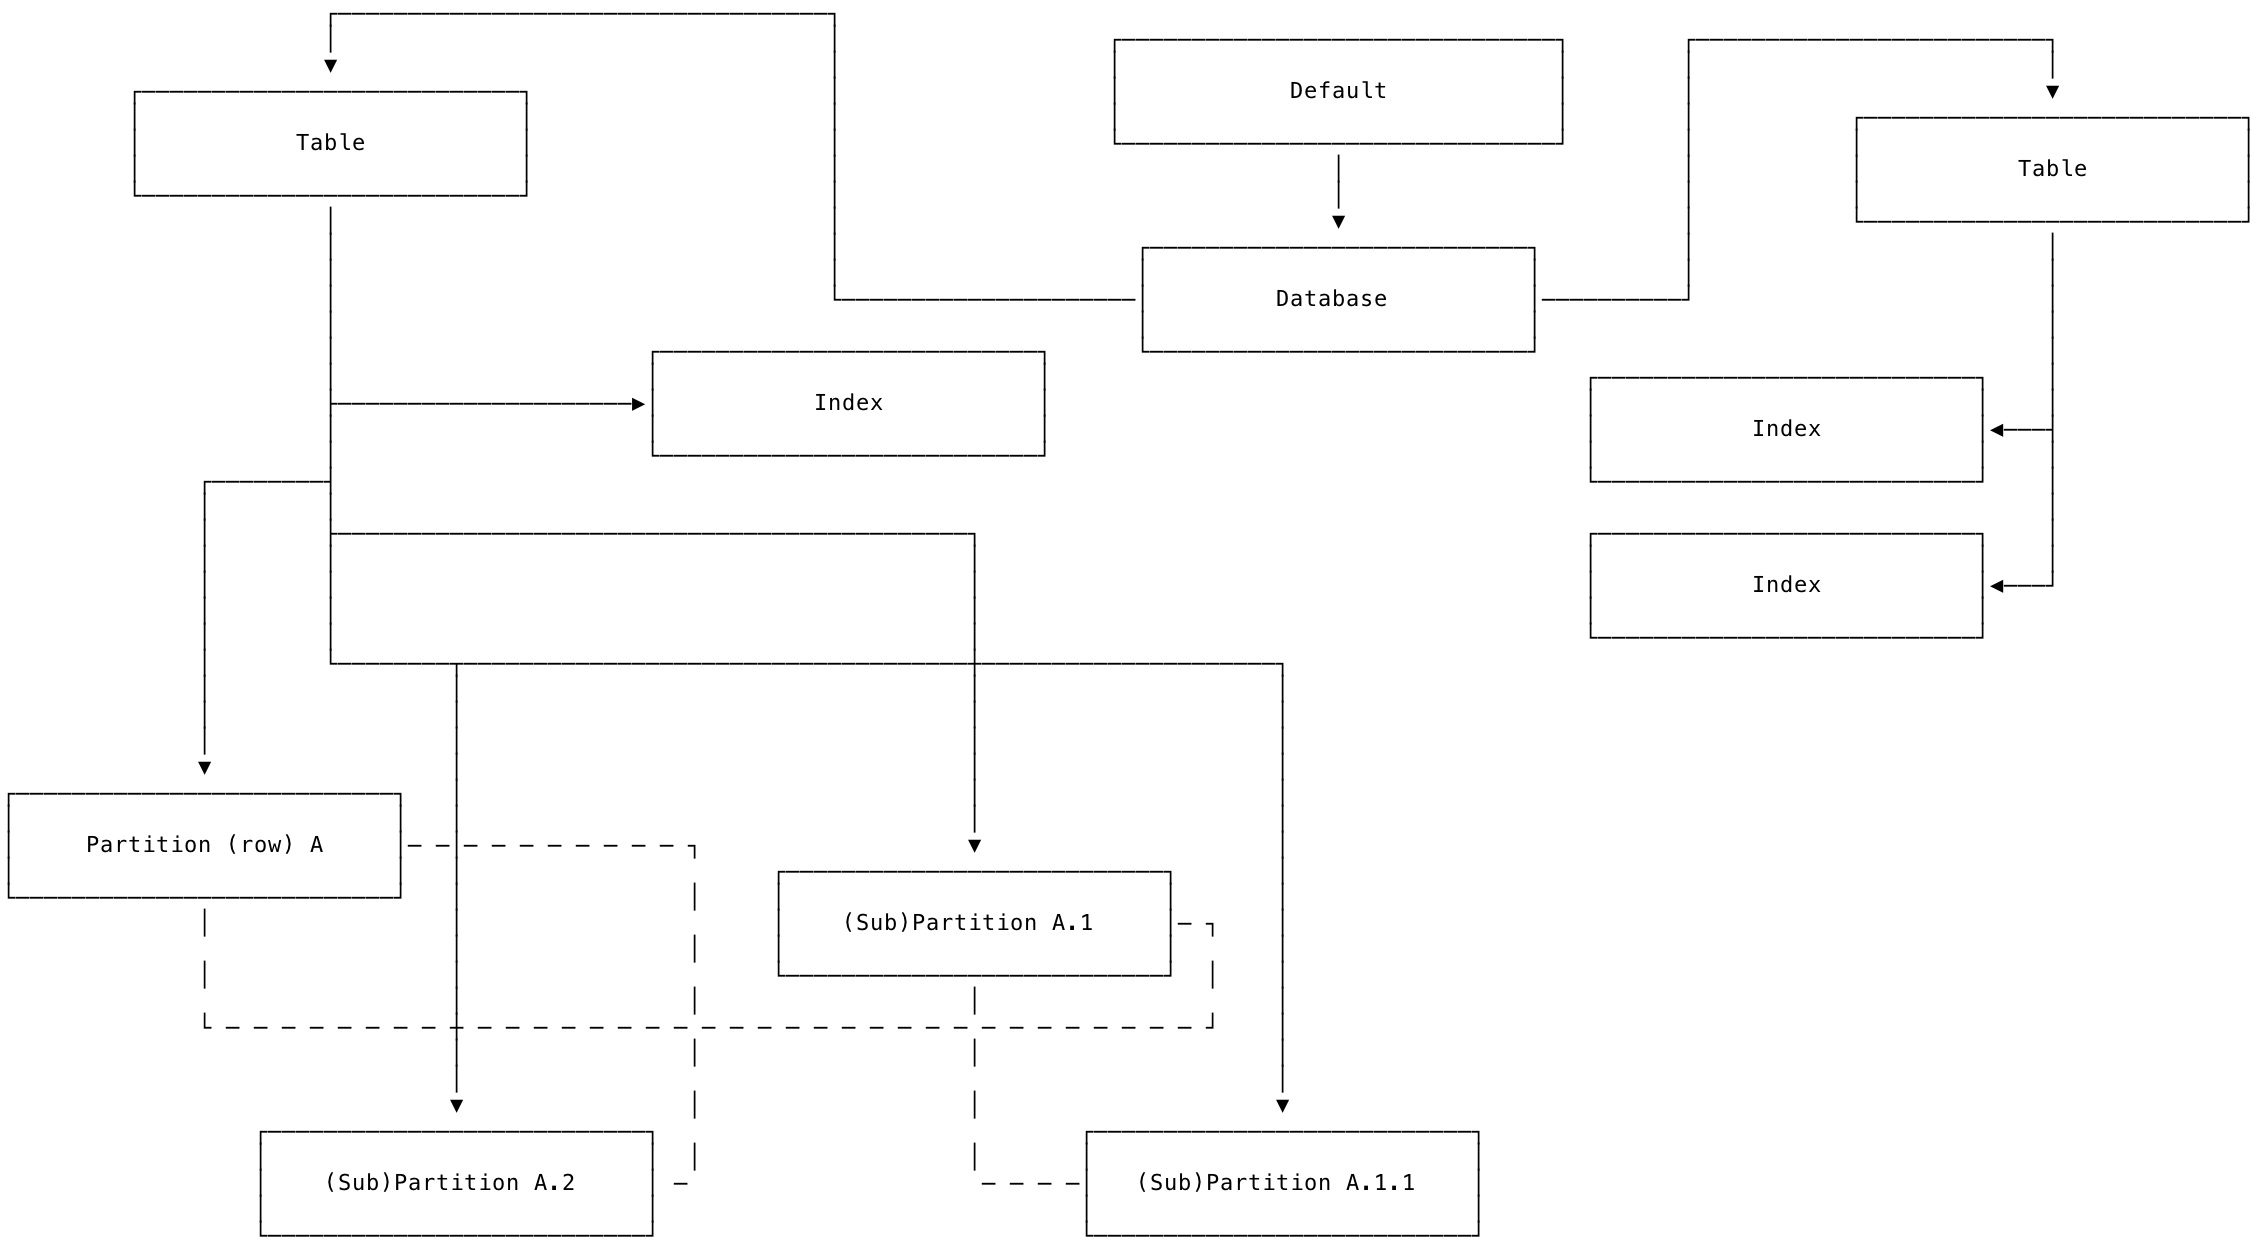
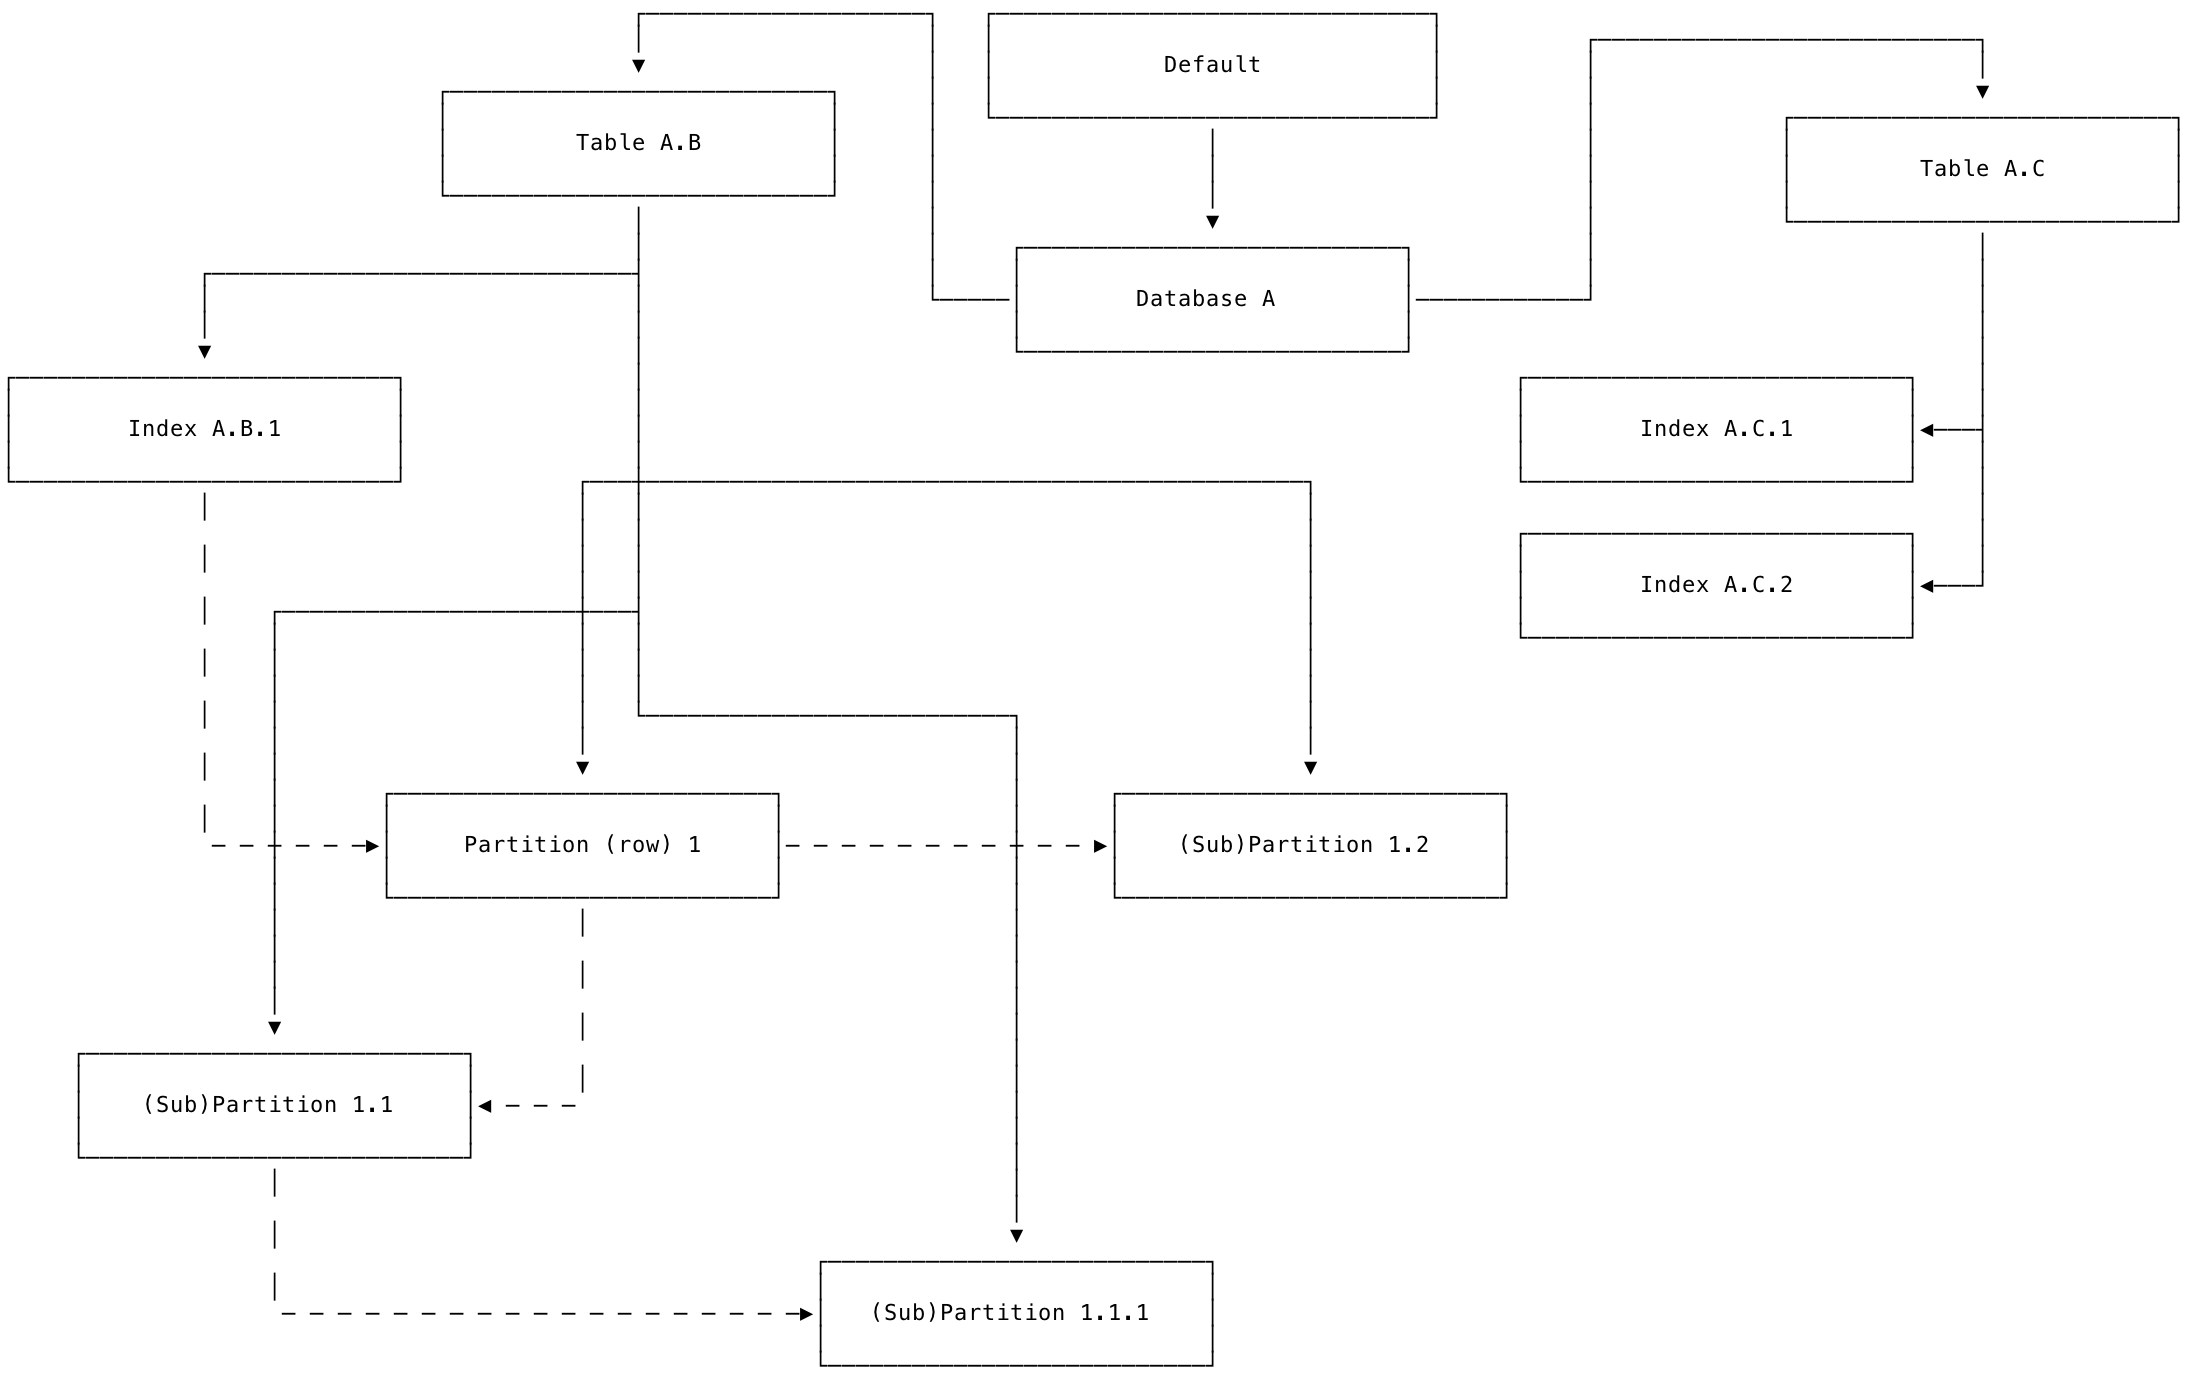
Update with annrpom and fqazi feedback (1)

diff --git a/src/current/v24.3/troubleshoot-replication-zones.md b/src/current/v24.3/troubleshoot-replication-zones.md
@@ -138,69 +138,57 @@ Once you have a range ID, you need to map from that ID to the name of a schema o
 
 The following example query uses the [`SHOW RANGES`]({% link {{ page.version.version }}/show-ranges.md %}) statement to show, for each range ID, which tables and indexes use that range for their underlying storage. The query assumes the [`movr` schema]({% link {{ page.version.version }}/movr.md %}#the-movr-database) that is loaded by [`cockroach demo`]({% link {{ page.version.version }}/cockroach-demo.md %}), so you'll need to modify it to work with your schema.
 
-XXX: GET HELP WITH THIS QUERY, OUTPUT SEEMS NOT QUITE RIGHT??? (or is it ok?)
-
 {% include_cached copy-clipboard.html %}
 ~~~ sql
-WITH movr_tables AS (SHOW RANGES FROM DATABASE movr WITH TABLES),
-       movr_indexes AS (SHOW RANGES FROM DATABASE movr WITH INDEXES)
-  SELECT movr_indexes.range_id,
+    WITH movr_tables AS (SHOW RANGES FROM DATABASE movr WITH TABLES),
+         movr_indexes AS (SHOW RANGES FROM DATABASE movr WITH INDEXES)
+  SELECT array_agg(movr_indexes.range_id) AS ranges,
          movr_tables.table_name,
          movr_indexes.index_name
     FROM movr_tables, movr_indexes
    WHERE movr_tables.range_id = movr_indexes.range_id
-ORDER BY movr_tables.range_id
+GROUP BY movr_tables.table_name, movr_indexes.index_name
+ORDER BY table_name, index_name
 ~~~
 
-In the following output, each range ID in the leftmost column maps to a table name and index name in the subsequent columns. For example, given this output, if the critical nodes endpoint said the constraint violation was for range ID 103, we would know to look at the zone configuration(s) for the `rides` table and the `rides_pkey` primary index.
-
-XXX: EDIT THIS QUERY OUTPUT ONCE YOU GET A (HOPEFULLY) BETTER QUERY
+In the following output, each range ID in the leftmost column maps to a table name and index name in the subsequent columns. For example, given this output, if the critical nodes endpoint said the constraint violation was for range ID 101, we would know to look at the zone configuration(s) for the `users` table and the `users_pkey` primary index.
 
 ~~~
-  range_id |         table_name         |                  index_name
------------+----------------------------+------------------------------------------------
-        71 | promo_codes                | promo_codes_pkey
-        71 | user_promo_codes           | promo_codes_pkey
-        78 | vehicle_location_histories | vehicle_location_histories_pkey
-        78 | promo_codes                | vehicle_location_histories_pkey
-        79 | user_promo_codes           | user_promo_codes_pkey
-        85 | vehicle_location_histories | rides_auto_index_fk_vehicle_city_ref_vehicles
-        85 | rides                      | rides_auto_index_fk_vehicle_city_ref_vehicles
-        87 | users                      | users_pkey
-        88 | users                      | users_pkey
-        89 | users                      | users_pkey
-        90 | users                      | users_pkey
-        91 | users                      | users_pkey
-        92 | vehicles                   | vehicles_pkey
-        92 | users                      | users_pkey
-        92 | users                      | vehicles_pkey
-        92 | vehicles                   | users_pkey
-        93 | users                      | users_pkey
-        94 | users                      | users_pkey
-        95 | vehicles                   | vehicles_pkey
-        96 | vehicles                   | vehicles_pkey
-        97 | vehicles                   | vehicles_pkey
-        98 | rides                      | vehicles_pkey
-        98 | rides                      | vehicles_auto_index_fk_city_ref_users
-        98 | vehicles                   | rides_pkey
-        98 | rides                      | rides_pkey
-        98 | vehicles                   | vehicles_pkey
-        98 | vehicles                   | vehicles_auto_index_fk_city_ref_users
-        99 | vehicles                   | vehicles_pkey
-       100 | vehicles                   | vehicles_pkey
-       101 | vehicles                   | vehicles_pkey
-       102 | vehicles                   | vehicles_pkey
-       103 | rides                      | rides_pkey
-       104 | rides                      | rides_pkey
-       105 | rides                      | rides_pkey
-       106 | rides                      | rides_pkey
-       106 | rides                      | rides_auto_index_fk_city_ref_users
-       107 | rides                      | rides_pkey
-       108 | rides                      | rides_pkey
-       109 | rides                      | rides_pkey
-       110 | rides                      | rides_pkey
-       111 | users                      | users_pkey
-(41 rows)
+                ranges               |         table_name         |                  index_name
+-------------------------------------+----------------------------+------------------------------------------------
+  {150}                              | promo_codes                | promo_codes_pkey
+  {150}                              | promo_codes                | rides_auto_index_fk_city_ref_users
+  {150}                              | promo_codes                | rides_auto_index_fk_vehicle_city_ref_vehicles
+  {150}                              | promo_codes                | rides_pkey
+  {150}                              | promo_codes                | user_promo_codes_pkey
+  {150}                              | promo_codes                | vehicle_location_histories_pkey
+  {150}                              | rides                      | promo_codes_pkey
+  {150}                              | rides                      | rides_auto_index_fk_city_ref_users
+  {150}                              | rides                      | rides_auto_index_fk_vehicle_city_ref_vehicles
+  {83,153,152,96,154,95,141,140,150} | rides                      | rides_pkey
+  {150}                              | rides                      | user_promo_codes_pkey
+  {150}                              | rides                      | vehicle_location_histories_pkey
+  {83}                               | rides                      | vehicles_auto_index_fk_city_ref_users
+  {83}                               | rides                      | vehicles_pkey
+  {150}                              | user_promo_codes           | promo_codes_pkey
+  {150}                              | user_promo_codes           | rides_auto_index_fk_city_ref_users
+  {150}                              | user_promo_codes           | rides_auto_index_fk_vehicle_city_ref_vehicles
+  {150}                              | user_promo_codes           | rides_pkey
+  {150}                              | user_promo_codes           | user_promo_codes_pkey
+  {150}                              | user_promo_codes           | vehicle_location_histories_pkey
+  {101,73,72,71,100,70,81,80,90}     | users                      | users_pkey
+  {90}                               | users                      | vehicles_pkey
+  {150}                              | vehicle_location_histories | promo_codes_pkey
+  {150}                              | vehicle_location_histories | rides_auto_index_fk_city_ref_users
+  {150}                              | vehicle_location_histories | rides_auto_index_fk_vehicle_city_ref_vehicles
+  {150}                              | vehicle_location_histories | rides_pkey
+  {150}                              | vehicle_location_histories | user_promo_codes_pkey
+  {150}                              | vehicle_location_histories | vehicle_location_histories_pkey
+  {83}                               | vehicles                   | rides_pkey
+  {90}                               | vehicles                   | users_pkey
+  {83}                               | vehicles                   | vehicles_auto_index_fk_city_ref_users
+  {90,94,93,92,85,91,84,82,83}       | vehicles                   | vehicles_pkey
+(32 rows)
 ~~~
 
 ### Replication system priorities: data placement vs data durability

diff --git a/src/current/v24.3/configure-replication-zones.md b/src/current/v24.3/configure-replication-zones.md
@@ -43,7 +43,7 @@ When a cluster starts, there are two categories of replication zone:
 1. Pre-configured replication zones that apply to internal system data.
 1. A single default replication zone that applies to the rest of the cluster.
 
-You can adjust these pre-configured zones as well as add zones for individual databases, tables, rows, and secondary indexes as needed.
+You can adjust these pre-configured zones as well as add zones for individual databases, tables, rows, and indexes as needed.
 
 For example, you might rely on the [default zone](#view-the-default-replication-zone) to spread most of a cluster's data across all of your availability zones, but [create a custom replication zone for a specific database](#create-a-replication-zone-for-a-database) to make sure its data is only stored in certain availability zones and/or geographies.
 
@@ -56,8 +56,8 @@ Level | Description
 Cluster | CockroachDB comes with a pre-configured `default` replication zone that applies to all table data in the cluster not constrained by a database, table, or row-specific replication zone. This zone can be adjusted but not removed. See [View the Default Replication Zone](#view-the-default-replication-zone) and [Edit the Default Replication Zone](#edit-the-default-replication-zone) for more details.
 Database | You can add replication zones for specific databases. See [Create a Replication Zone for a Database](#create-a-replication-zone-for-a-database) for more details.
 Table | You can add replication zones for specific tables. See [Create a Replication Zone for a Table](#create-a-replication-zone-for-a-table).
-Index | The [secondary indexes]({% link {{ page.version.version }}/indexes.md %}) on a table will automatically use the replication zone for the table. However, with an Enterprise license, you can add distinct replication zones for secondary indexes. See [Create a Replication Zone for a Secondary Index](#create-a-replication-zone-for-a-secondary-index) for more details.
-Row | You can add replication zones for specific rows in a table or secondary index by [defining table partitions]({% link {{ page.version.version }}/partitioning.md %}). See [Create a Replication Zone for a Table Partition](#create-a-replication-zone-for-a-partition) for more details.
+Index | The [indexes]({% link {{ page.version.version }}/indexes.md %}) on a table will automatically use the replication zone for the table. However, with an Enterprise license, you can add distinct replication zones for indexes. See [Create a Replication Zone for a Secondary Index](#create-a-replication-zone-for-a-secondary-index) for more details.
+Row | You can add replication zones for specific rows in a table or index by [defining table partitions]({% link {{ page.version.version }}/partitioning.md %}). See [Create a Replication Zone for a Table Partition](#create-a-replication-zone-for-a-partition) for more details.
 
 ### For system data
 
@@ -73,8 +73,8 @@ System Range | CockroachDB comes with pre-configured replication zones for impor
 When replicating data, whether table or system, CockroachDB always uses the most granular replication zone available. For example, for a piece of user data:
 
 1. If there's a replication zone [for the row](#create-a-replication-zone-for-a-partition) (a.k.a. [partition]({% link {{ page.version.version }}/partitioning.md %})), CockroachDB uses it.
-1. If there's no applicable row replication zone and the row is from a secondary index, CockroachDB uses the [secondary index replication zone](#create-a-replication-zone-for-a-secondary-index).
-1. If the row isn't from a secondary index or there is no applicable secondary index replication zone, CockroachDB uses the [table replication zone](#create-a-replication-zone-for-a-table).
+1. If there's no applicable row replication zone and the row is from an index, CockroachDB uses the [index replication zone](#create-a-replication-zone-for-a-secondary-index).
+1. If the row isn't from a index or there is no applicable index replication zone, CockroachDB uses the [table replication zone](#create-a-replication-zone-for-a-table).
 1. If there's no applicable table replication zone, CockroachDB uses the [database replication zone](#create-a-replication-zone-for-a-database).
 1. If there's no applicable database replication zone, CockroachDB uses [the `default` cluster-wide replication zone](#view-the-default-replication-zone).
 
@@ -102,17 +102,17 @@ The only exception to this simple inheritance relationship is that due to a know
 
 ```
 - default
-  - database
-    - table
-      - index
+  - database A
+    - table A.B
+      - index A.B.1
         - partition (row) 1
           - sub-partition 1.1 (NB. Sub-partitions inherit from tables, *not* partitions - see cockroachdb/cockroach#75862)
             - sub-partition 1.1.1
           - sub-partition 1.2
-    - table
-      - index
-      - index
-      - ... 
+    - table A.C
+      - index A.C.1
+      - index A.C.2
+  - ...
 ```
 
 The way the zone config inheritance hierarchy works can be thought of from a "bottom-up" or "top-down" perspective; both are useful, but which one is easier to understand may depend on what you are trying to do.
